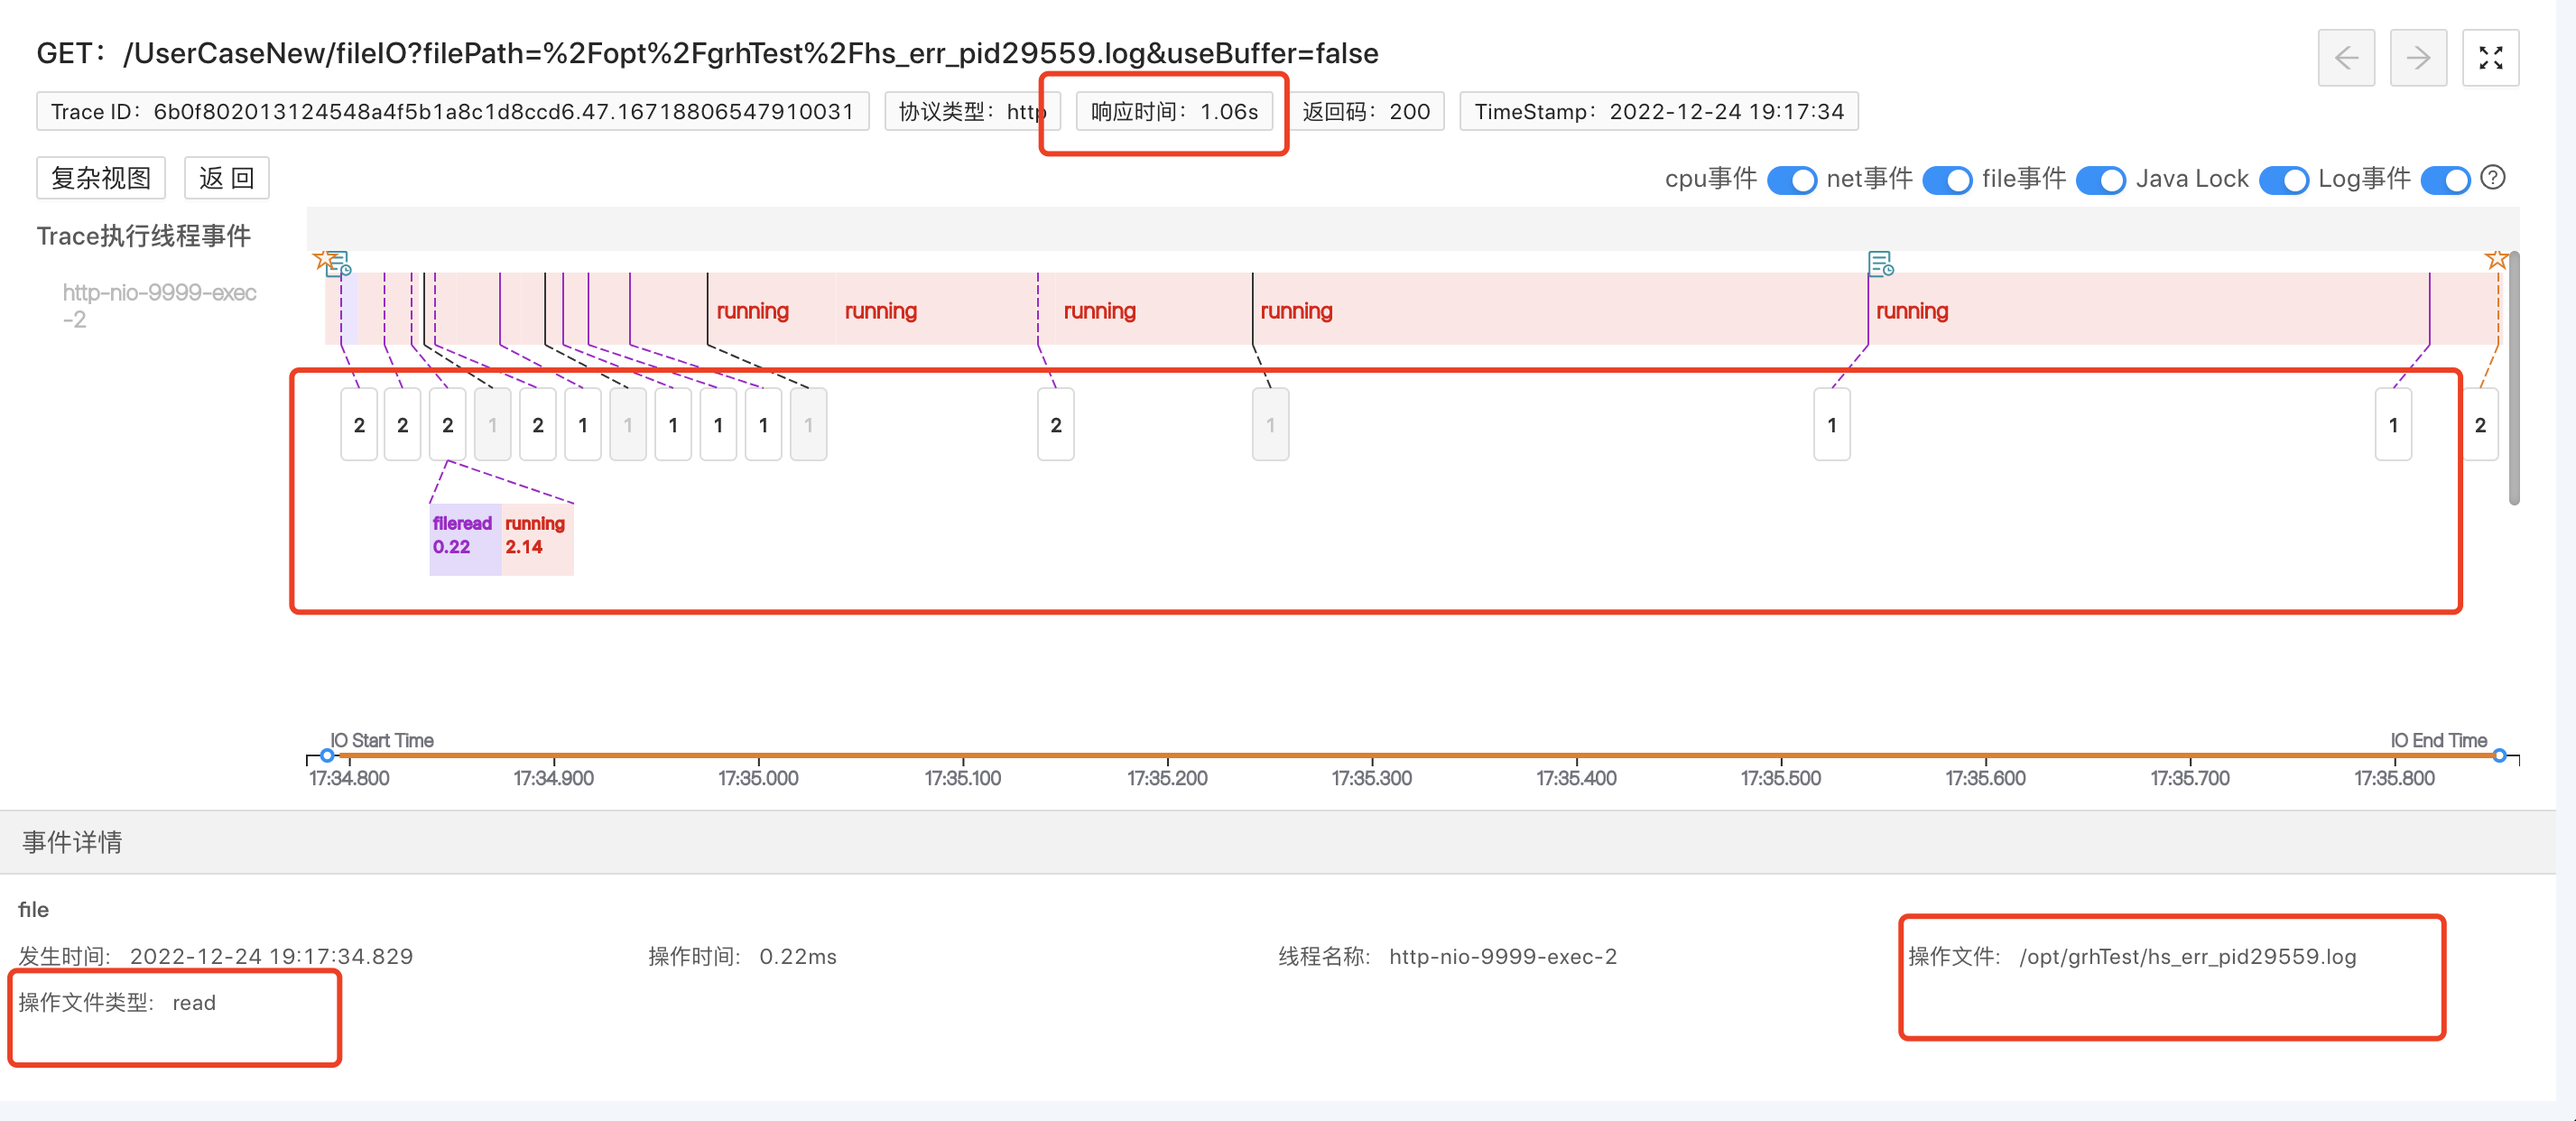
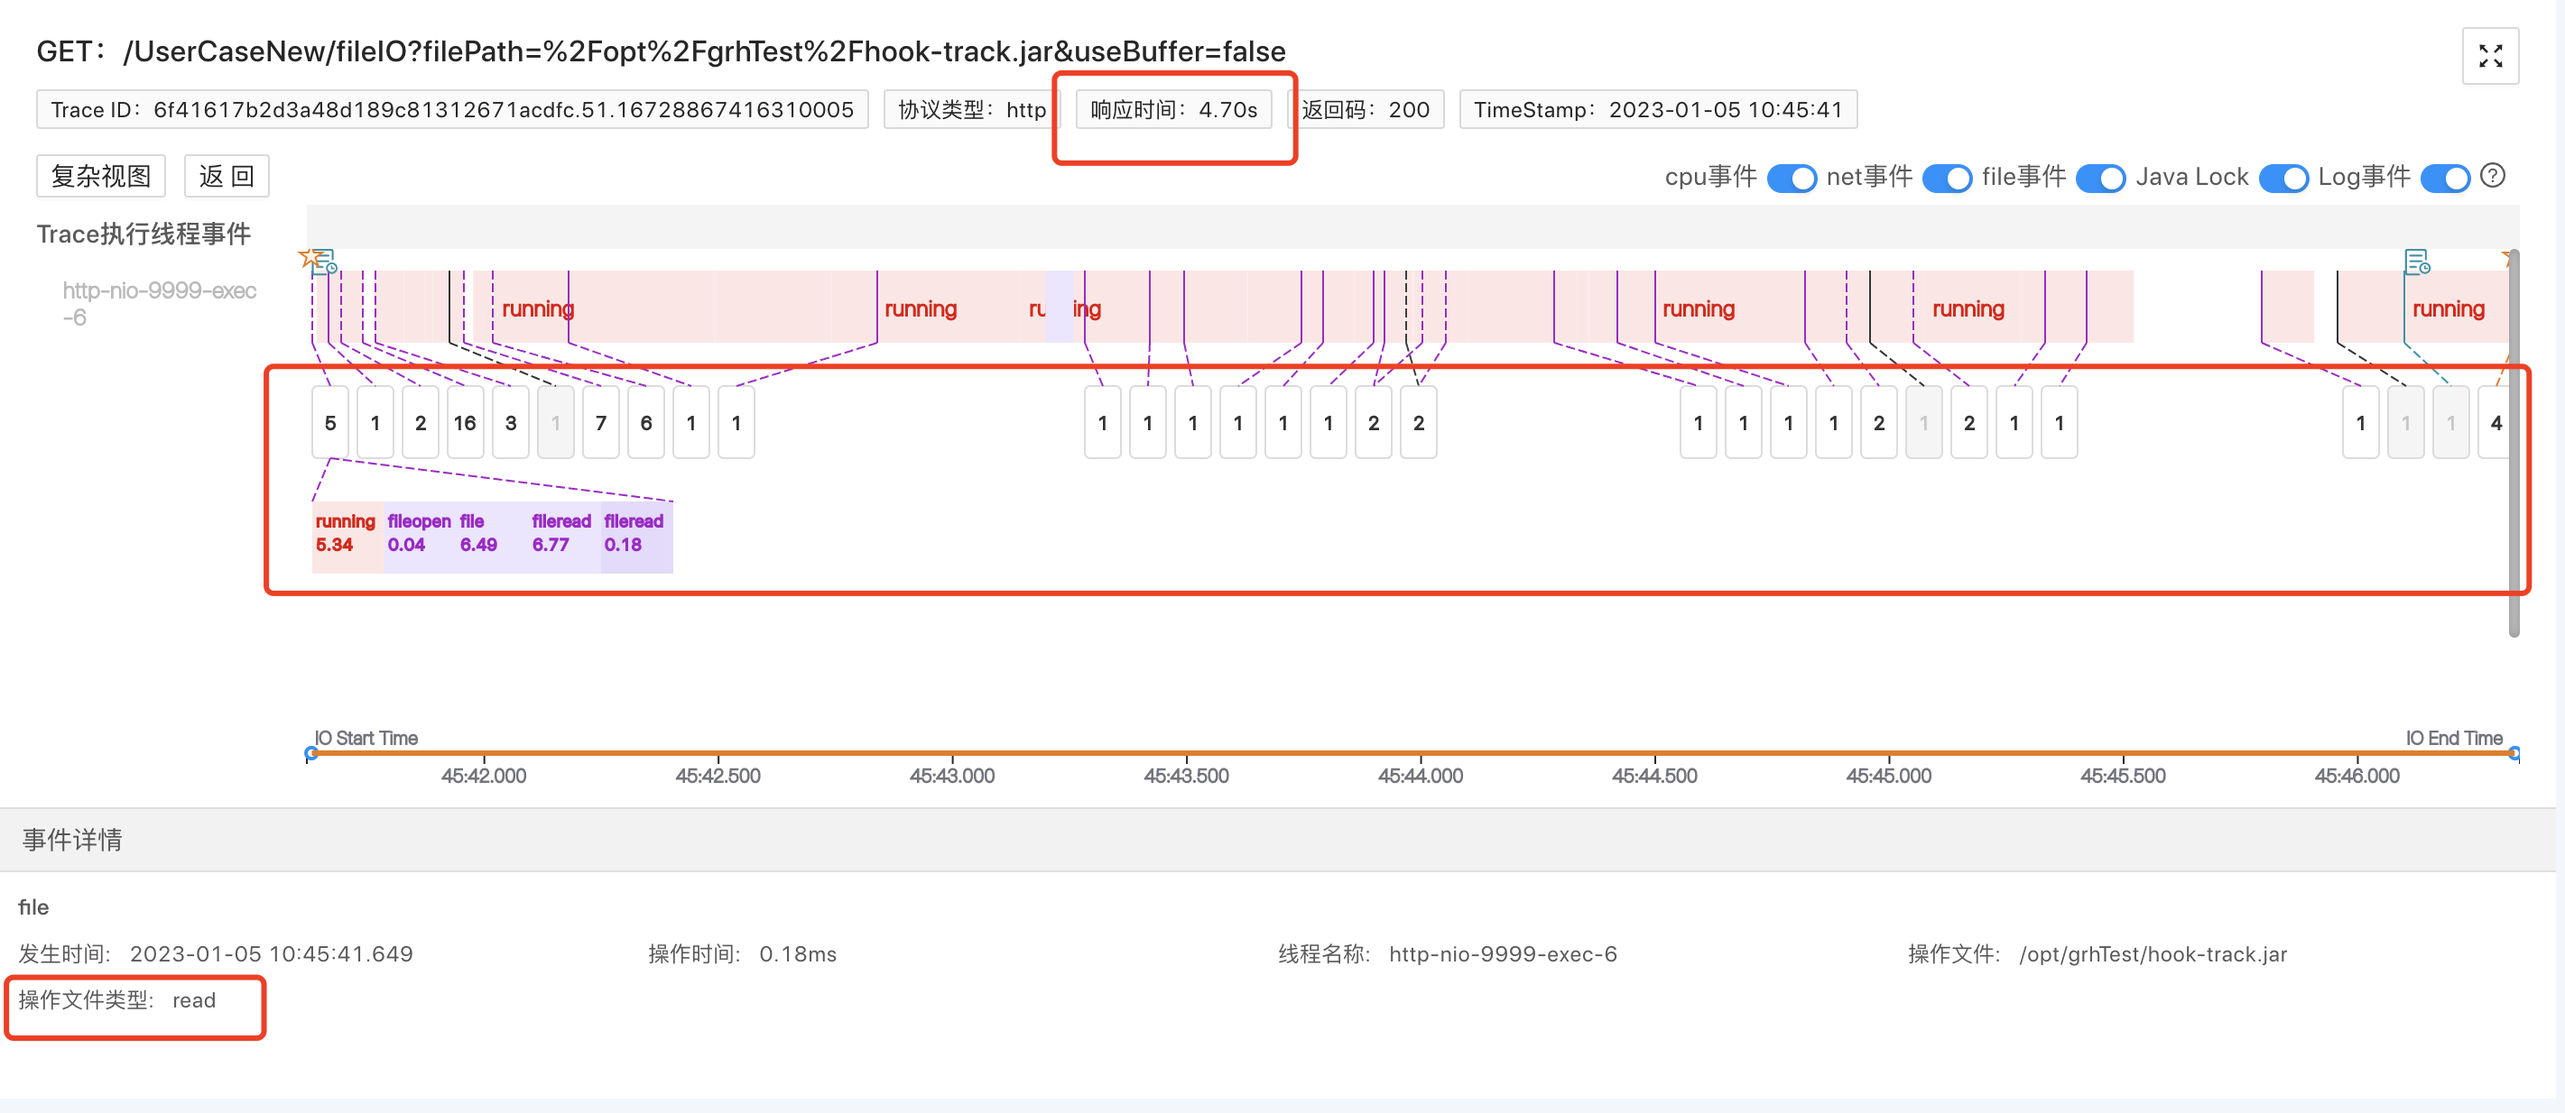
modify user cases

diff --git a/content/en/blogs/use-cases/trace-profiling-menu/file-io-buffer/index.md b/content/en/blogs/use-cases/trace-profiling-menu/file-io-buffer/index.md
@@ -31,9 +31,9 @@ toc: true
 #### 2.3 分析Trace执行线程事件
 > 文件IO问题可能是由于硬件、网络、代码等各种原因导致的，通常情况下，我们是根据经验，采用排除法一个个去查，但是我们换个角度打开思路：任何原因导致了IO问题，势必会在系统执行的过程中留下痕迹，而程序摄像头Trace Profiling能够通过捕捉记录一次请求下所有的系统调用事件、整合metric数据，精准还原故障现场。比如我们下述所提到的因代码问题导致的文件IO慢，就是通过“现场痕迹”快速定位故障根因。
 
-我们点击span展开，查看对应的详细信息，通过线程事件详情数据来分析文件IO慢的根因。<br />这个测试请求，是读一个224.6Kb的文件，但是竟然花了1.06s，通过线程执行事件分析，我们可以看到系统内核做了很多fileRead事件。（网络带宽正常，此类指标数据后期会补充到页面上，目前开源版暂未支持）<br />![image.png](3.png)<br />点击running事件，查看线程堆栈：<br />![image.png](4.png)<br />根据堆栈，我们大致能推断这是系统在将文件数据从内核态拷贝到用户态。<br />到这里我们其实有了大致的推断：带宽等网络指标正常，系统做了大量的fileread事件，再结合计算机基础知识，说明这个文件IO过程没有buffer，或者说buffer空间太小，导致系统需要不断将文件数据从内核态拷贝到用户态。
+我们点击span展开，查看对应的详细信息，通过线程事件详情数据来分析文件IO慢的根因。<br />这个测试请求，是读一个1.07M的文件，但是竟然花了4.07s，通过线程执行事件分析，我们可以看到系统内核做了很多fileRead事件。（网络带宽正常，此类指标数据后期会补充到页面上，目前开源版暂未支持）<br />![image.png](3.png)<br />点击running事件，查看线程堆栈：<br />![image.png](4.png)<br />根据堆栈，我们大致能推断这是系统在将文件数据从内核态拷贝到用户态。<br />到这里我们其实有了大致的推断：带宽等网络指标正常，系统做了大量的fileread事件，再结合计算机基础知识，说明这个文件IO过程没有buffer，或者说buffer空间太小，导致系统需要不断将文件数据从内核态拷贝到用户态。
 
-再给大家对比看一下，正常加了buffer的文件IO过程是怎么样的：读取3.4M的文件，只花了1.1s。<br />![image.png](5.png)<br />加了buffer之后，读取一个大很多文件，但系统内核的fileRead事件做得更少，它只需要少次地从内核态读取到用户态，所以这就是加buffer后IO性能更高的根本原因。
+再给大家对比看一下，正常加了buffer的文件IO过程是怎么样的：读取33.81M的文件，只花了1.89s。<br />![image.png](5.png)<br />加了buffer之后，读取一个大很多文件，但系统内核的fileRead事件做得相对而言更少些，它不需要更多次从内核态读取到用户态，所以这就是加buffer后IO性能更高的根本原因。
 <a name="f2890e51"></a>
 ### 3. 精准还原执行现场，10分钟黄金时间排障
 对于文件IO问题，程序摄像头Trace Profiling能够：

diff --git a/content/en/blogs/use-cases/trace-profiling-menu/cpu-irregular-spike/index.md b/content/en/blogs/use-cases/trace-profiling-menu/cpu-irregular-spike/index.md
@@ -35,19 +35,31 @@ toc: true
 
 点击Span展开，查看对应的详细信息，通过线程事件详情来分析CPU异常原因。<br />![image.png](3.png)<br />我们可以看到，本次Trace的执行主线程花了大部分时间在做running（及cpu逻辑计算）事件，点击running事件，可查看堆栈信息。堆栈显示，这是系统在执行JSON.toJSON操作，从这里我们可以推断出，本次Trace是因为执行了大对象的序列化操作，导致CPU耗时异常。
 
+#### 2.4 案例demo在线演示地址
+
+Fastjson框架测试请求：
+http://218.75.39.90:9504/#/thread?folder=Demo_Demo-69579c8597-xpw9k_javedemo_24355&file=http_L1VzZXJDYXNlTmV3L3F1ZXJ5QmlnUmVzdWx0_1672887117564186216_true
+
 <a name="gPgT1"></a>
 ### 3. 精准还原执行现场，10分钟黄金时间排障
 生产环境的场景远比本次案例复杂的多，它的运行过程像个黑盒子，程序摄像头Trace Profiling能够监测记录所有系统内核调用事件、且与metric数据整合，为我们打开了“黑盒子”。以此实现10分钟黄金时间快速排障，通过线程按时间轴执行事件的方式精准还原请求执行现场，降低排障门槛，降低对专家经验的依赖。
 <a name="fVzbM"></a>
 ### 4. 序列化知识点拓展
-对象序列化、反序列化是开发的超高频操作，但是很多小伙伴可能不知道，这是很费CPU的操作。而常见的Jackson、fastjson、Gson、net.sf.json这4中序列化框架性能相差很大，尤其是序列化对象很大的时候，在生产环境就容易引起CPU飙高，但持续时间又很短，难以捕捉的情况。<br />上面的demo中我们用的是Fastjson框架，我们再用Trace Profiling来捕捉记录一下其他3种序列化框架的测试请求对比看下：<br />![image.png](4.png)
+对象序列化、反序列化是开发的超高频操作，但是很多小伙伴可能不知道，这是很费CPU的操作。而常见的Jackson、fastjson、Gson、net.sf.json这4中序列化框架性能相差很大，尤其是序列化对象很大的时候，在生产环境就容易引起CPU飙高，但持续时间又很短，难以捕捉的情况。<br />上面的demo中我们用的是Fastjson框架，我们再用Trace Profiling来捕捉记录一下其他3种序列化框架的测试请求对比看下：<br />
 <a name="UrmPH"></a>
 #### 4.1 Jackson 1.21s
+在线演示地址：http://218.75.39.90:9504/#/thread?folder=Demo_Demo-69579c8597-xpw9k_javedemo_24355&file=http_L1VzZXJDYXNlTmV3L3F1ZXJ5QmlnUmVzdWx0_1672887119685860683_true
+
 ![image.png](5.png)
 <a name="cDzJh"></a>
 #### 4.2 Gson 2.61s
+
+在线演示地址：http://218.75.39.90:9504/#/thread?folder=Demo_Demo-69579c8597-xpw9k_javedemo_24355&file=http_L1VzZXJDYXNlTmV3L3F1ZXJ5QmlnUmVzdWx0_1672887122006787404_true
+
 ![image.png](6.png)
 <a name="LjuWi"></a>
 #### 4.3 net.sf.json 2.96s
+
+在线演示地址：http://218.75.39.90:9504/#/thread?folder=Demo_Demo-69579c8597-xpw9k_javedemo_24355&file=http_L1VzZXJDYXNlTmV3L3F1ZXJ5QmlnUmVzdWx0_1672887125255336776_true
 ![image.png](7.png)<br />我们可以看到，4种序列化框架工具效率相差很大，相对其他排障工具，程序摄像头Trace Profiling“更人性化”地帮你捕捉了高CPU耗时的堆栈信息。
 

diff --git a/content/en/blogs/use-cases/trace-profiling-menu/mysql-commit/index.md b/content/en/blogs/use-cases/trace-profiling-menu/mysql-commit/index.md
@@ -35,14 +35,19 @@ toc: true
 
 本次工作线程做了两次对数据库的net请求，点击第一次，可以看到报文信息，显示我们代码里确实设置了Transaction事务。<br />![image.png](3.png)<br />接着，线程做了第二个net事件，是执行了插入sql，在此之后，工作线程没有再发起sql相关的net请求。<br />由此，我们可以明确，本次请求，没有执行事务回滚。<br />![image.png](4.png)
 
+#### 2.4 事务失效demo在线演示地址
+http://218.75.39.90:9504/#/thread?query=es&pid=24355&stime=1672888787128&etime=1672888788128&protocl=http
 <a name="C5VUQ"></a>
-#### 2.4 事务生效场景示例
+#### 2.5 事务生效场景示例
 便于大家比对，我们同样用程序摄像头Trace Profiling捕捉了事务生效时的请求记录
+
+##### 2.5.1 事务生效demo在线演示地址
+http://218.75.39.90:9504/#/thread?query=es&pid=24355&stime=1672888797141&etime=1672888798141&protocl=http
 <a name="NJ6db"></a>
-##### 2.4.1 请求span分析
+##### 2.5.2 请求span分析
 ![image.png](5.png)<br />事务生效时，我们明显从trace的span信息中看到，在execute之后，调用了rollback方法。
 <a name="q8Iwd"></a>
-##### 2.4.2 请求执行线程事件分析
+##### 2.5.3 请求执行线程事件分析
 ![image.png](6.png)<br />我们可以看到，相对上一个事务失效的测试请求，这上面多了3个net事件，我们点击查看具体的请求报文，看看它们做了什么事情：<br />![image.png](7.png)<br />![image.png](8.png)<br />![image.png](9.png)<br />![image.png](10.png)<br />![image.png](11.png)<br />我们可以根据事件+报文信息，清楚的看到本次请求的执行过程，明确本次事务成功执行。
 <a name="kHv7p"></a>
 ### 3. 精准还原执行现场，10分钟黄金时间排障

diff --git a/content/en/blogs/use-cases/trace-profiling-menu/app-dns-slow/index.md b/content/en/blogs/use-cases/trace-profiling-menu/app-dns-slow/index.md
@@ -33,6 +33,15 @@ toc: true
 在下图中，我们可以看到，本次请求的工作线程做了两次网络调用net事件，点击第一次，从报文中可以看到，请求在做DNS解析。<br />![image.png](3.png)<br />点击第二次，从报文中可以看到，请求被转发到服务的IP地址调用。<br />![image.png](4.png)
 
 这就是很多开发同学可能忽视的一点，当我们通过域名调用api时，会先进行域名解析，然后再转发到对应的服务ip上。当因为DNS解析失败导致请求失败时，大家可能会误以为是服务不可用，弄错排查方向。
+
+#### 2.4 案例demo在线演示地址
+
+通过域名访问API接口，含DNS解析过程：
+http://218.75.39.90:9504/#/thread?query=es&pid=24355&stime=1672889213933&etime=1672889214933&protocl=http
+
+通过IP访问API接口，不含DNS解析过程：
+http://218.75.39.90:9504/#/thread?query=es&pid=28037&stime=1672889415602&etime=1672889416602&protocl=http
+
 <a name="yGSQp"></a>
 ### 3. 精准还原执行现场，10分钟黄金时间排障
 生产环境的场景远比本次案例复杂的多，它的运行过程像个黑盒子，程序摄像头Trace Profiling能够监测记录所有系统内核调用事件、且与metric数据整合，为我们打开了“黑盒子”。以此实现10分钟黄金时间快速排障，通过线程按时间轴执行事件的方式精准还原请求执行现场，降低排障门槛，降低对专家经验的依赖。

diff --git a/content/en/blogs/use-cases/trace-profiling-menu/thread-pool-log/index.md b/content/en/blogs/use-cases/trace-profiling-menu/thread-pool-log/index.md
@@ -32,6 +32,11 @@ toc: true
 > 程序摄像头Trace Profiling对于多线程问题的排查在可观测领域是颠覆性的，它做到了可视化排障，通过捕捉记录一次请求下所有工作线程的系统调用事件、整合metric数据，精准还原故障现场。对于线程之间的资源竞争、lock的抢占，通过可视化的方式，让排查者一目了然。
 
 我们点击span展开，查看对应的详细信息，通过线程事件详情数据来分析根因。<br />![image.png](3.png)<br />我看可以看到，主线程上除了日志标记、正常执行逻辑计算的running事件，占大部分耗时的是lock事件，我们点击事件查看堆栈：<br />![image.png](4.png)<br />“logback”、“OutputStreamAppender”，大家有想到什么吗？其实这是线程是在等待日志锁。在大量并发场景下，所有的业务日志打在同一个文件里，就出现了资源抢占问题，当某一线程在读写日志的时候，其他线程只能等待，最后导致了请求响应速度不如预期。
+
+#### 2.4 案例demo在线演示地址
+http://218.75.39.90:9504/#/thread?folder=Demo_Demo-69579c8597-xpw9k_javedemo_24355&file=http_L1VzZXJDYXNlTmV3L2xvZ0xvY2s=_1672887050012697307_true
+
+
 <a name="yGSQp"></a>
 ### 3. 精准还原执行现场，10分钟黄金时间排障
 程序摄像头Trace Profiling能够：
